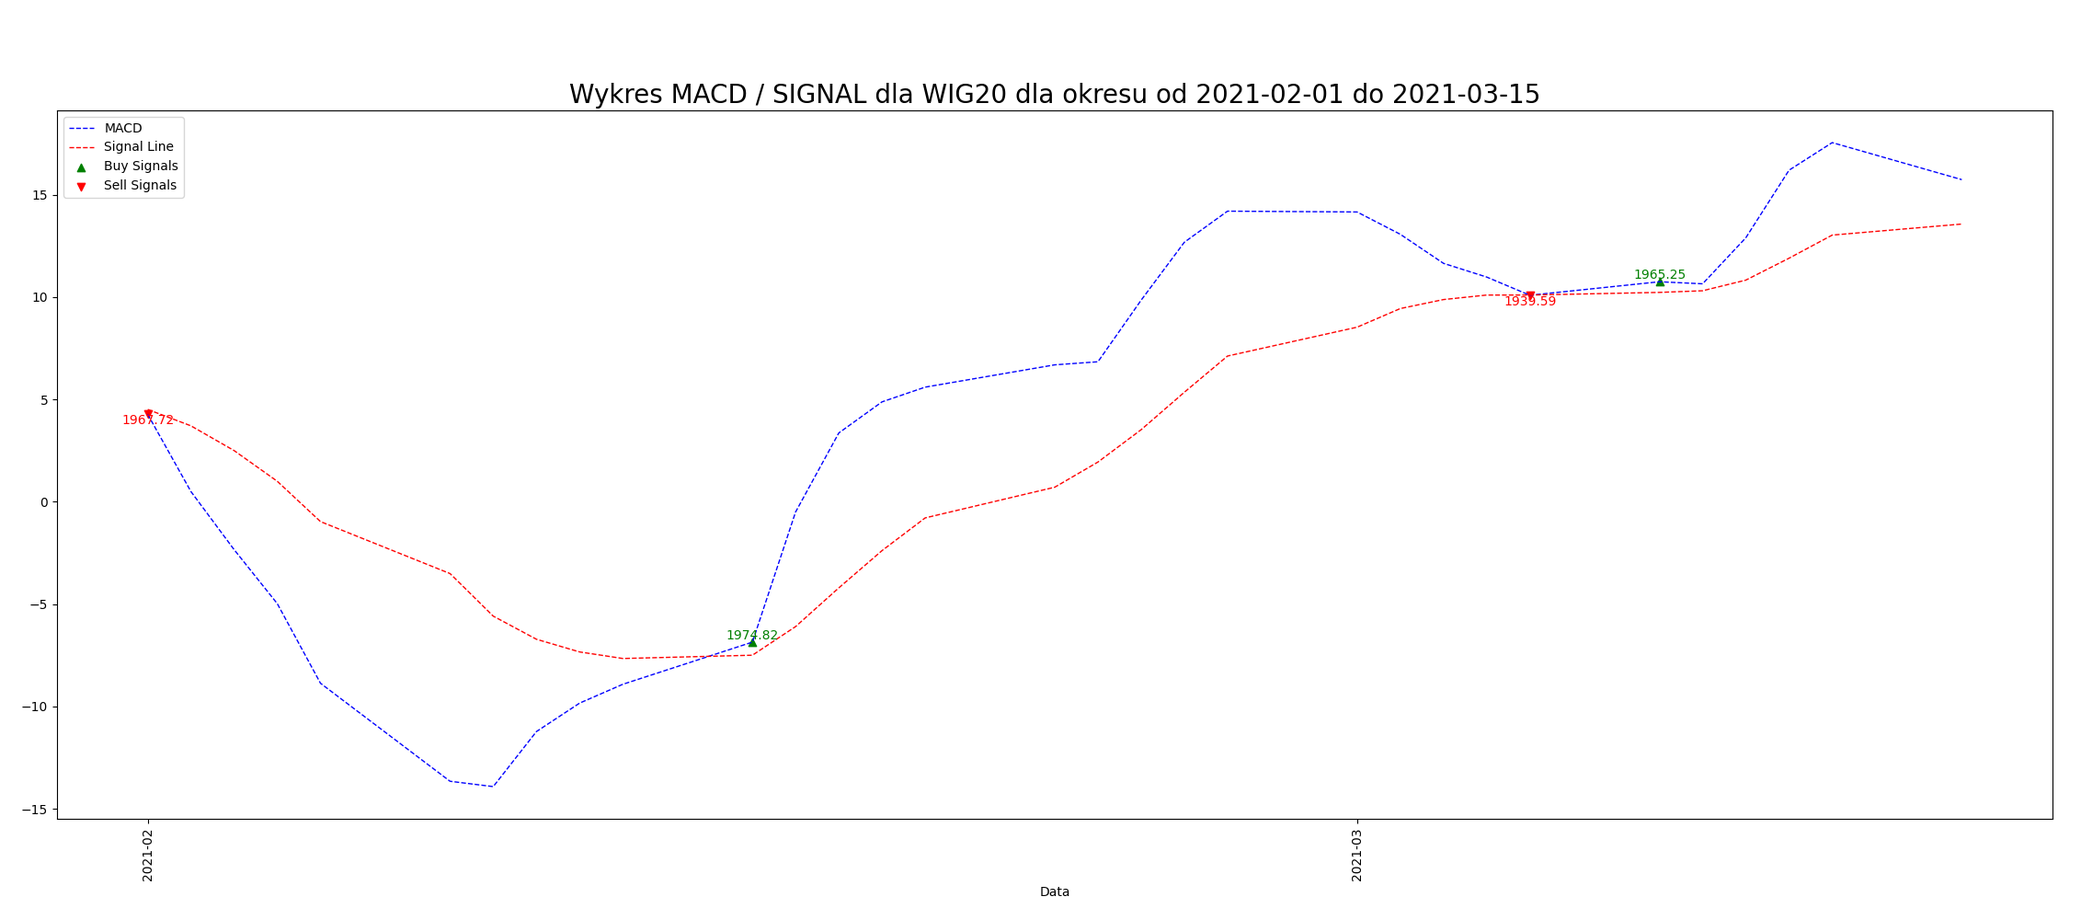
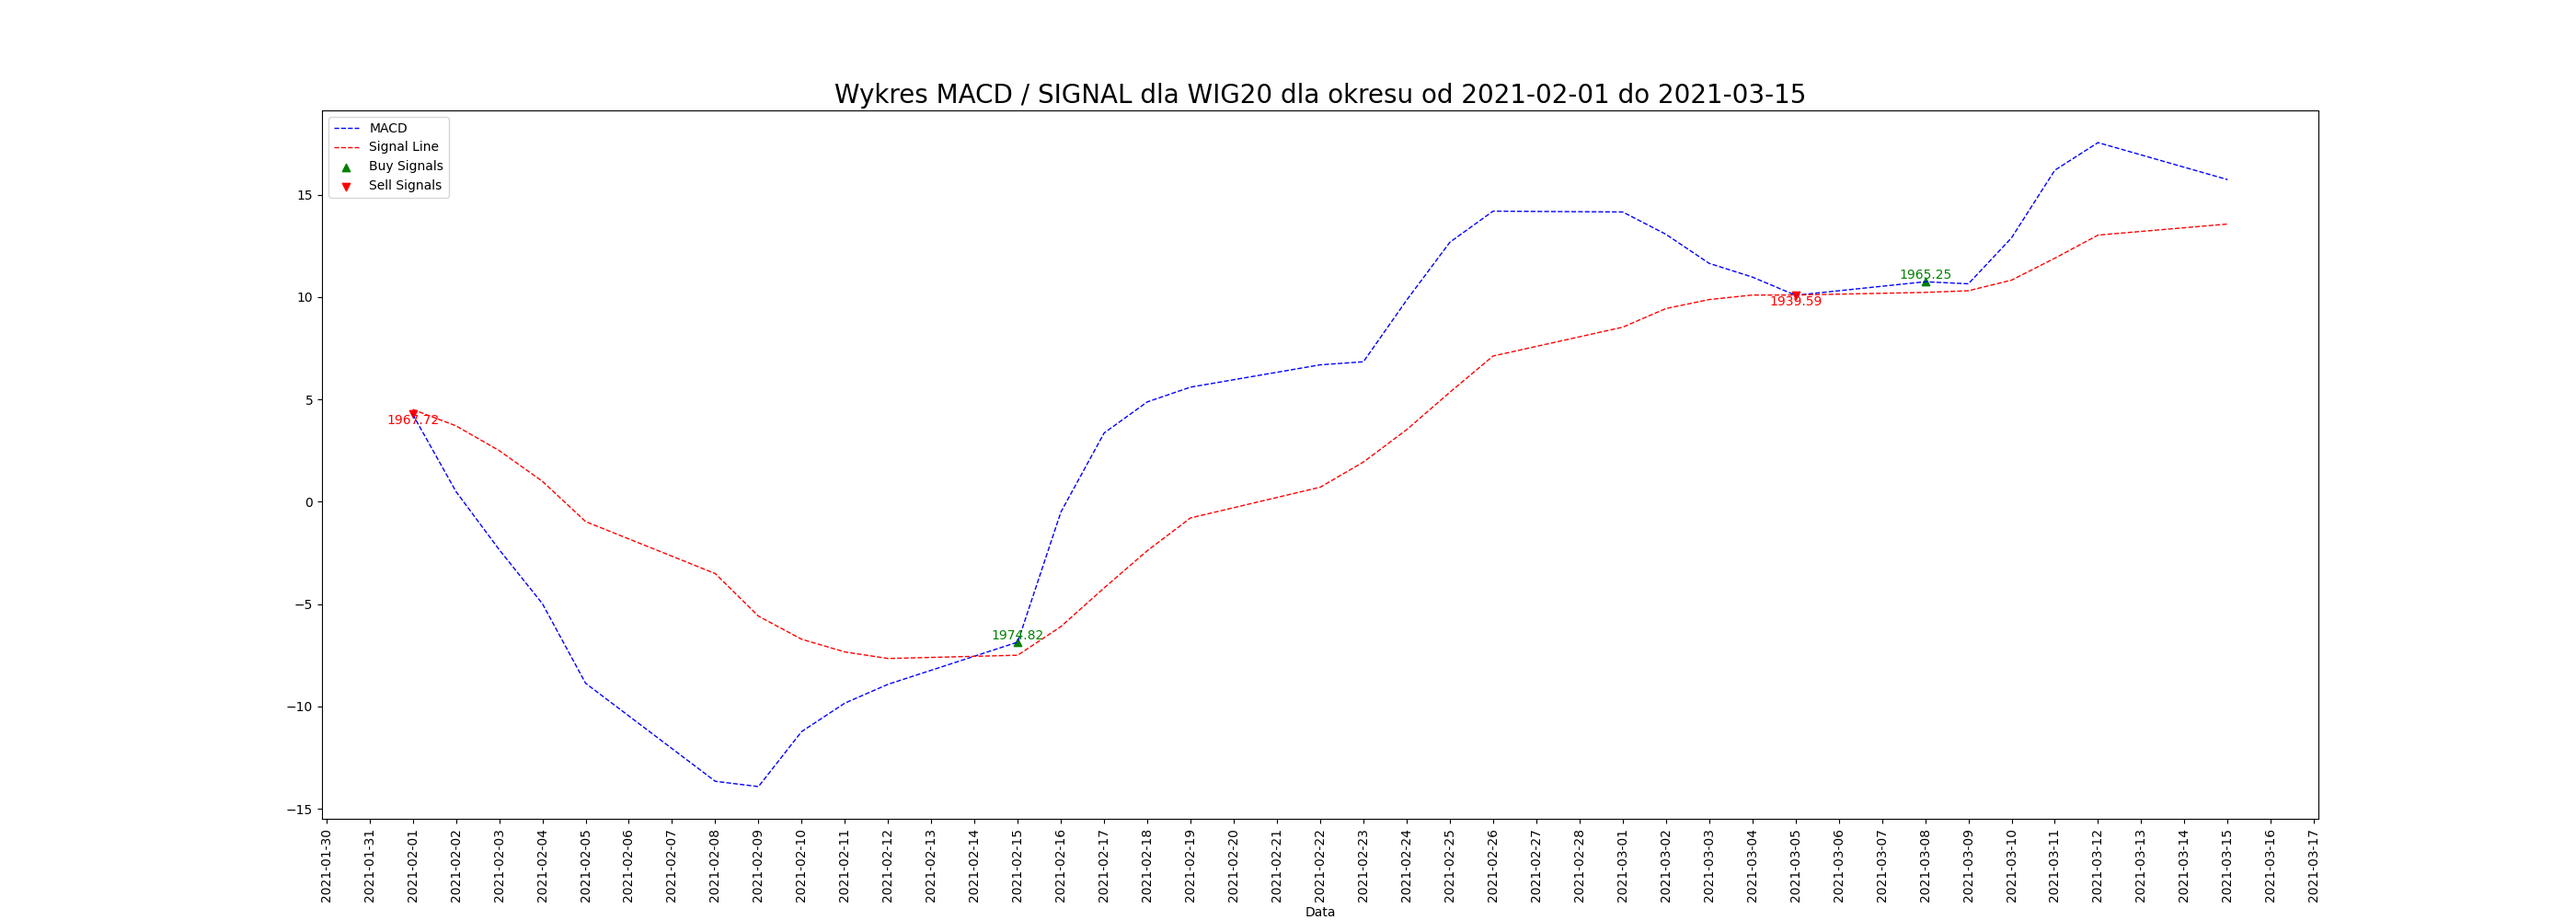
added days in dates for plotting given period

diff --git a/main.py b/main.py
@@ -396,8 +396,8 @@ def plotting_buy_sell_signals_for_given_period(data, macd, signal, buy_signals, 
         closing_price = data.loc[data['Data'] == date, 'Zamkniecie'].values[0]
         plt.text(date, value, f'{closing_price:.2f}', color='red', fontsize=10, ha='center', va='top')
 
-    plt.gca().xaxis.set_major_locator(mdates.MonthLocator())
-    plt.gca().xaxis.set_major_formatter(mdates.DateFormatter('%Y-%m'))
+    plt.gca().xaxis.set_major_locator(mdates.DayLocator())
+    plt.gca().xaxis.set_major_formatter(mdates.DateFormatter('%Y-%m-%d'))
     plt.xticks(rotation=90)
 
     plt.xlabel('Data')
@@ -458,6 +458,8 @@ plotting_buy_sell_signals_for_given_period(data, macd, signal, buy_signals, sell
 plotting_buy_sell_signals_for_given_period(data, macd, signal, buy_signals, sell_signals, '2022-06-01', '2022-09-30')
 
 plotting_buy_sell_signals_for_given_period(data, macd, signal, buy_signals, sell_signals, '2023-10-01', '2023-12-31')
+
+plotting_buy_sell_signals_for_given_period(data, macd, signal, buy_signals, sell_signals, '2021-01-15', '2021-02-04')
 
 
 
